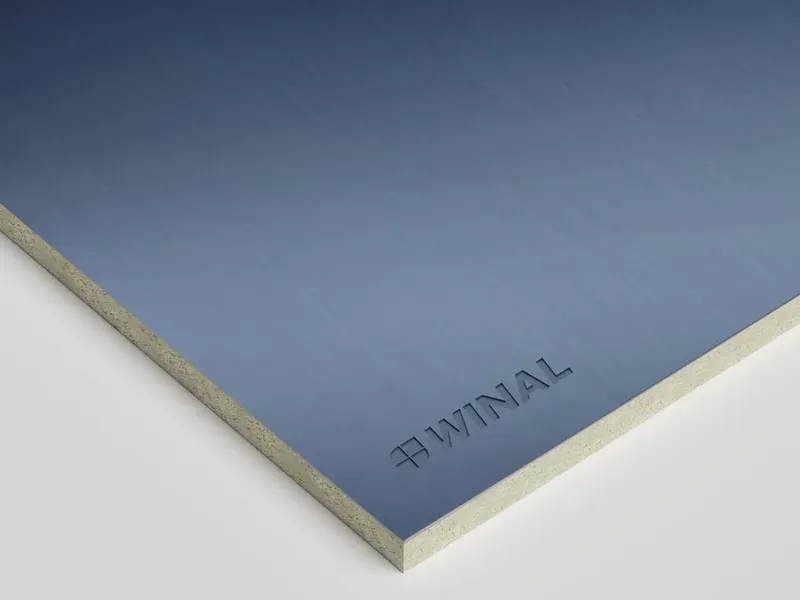
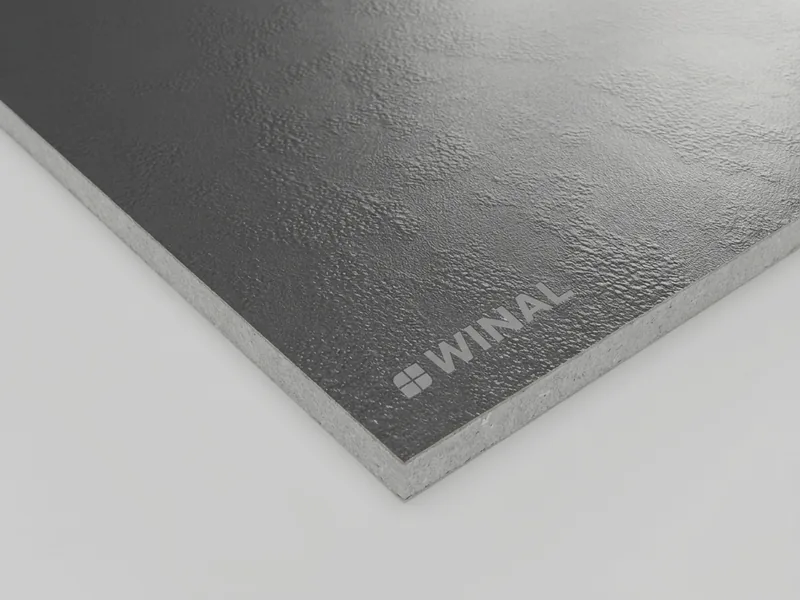
ГКЛ Полимер: shagreen catalogue cover and seven studio shots in the gallery
Cover: grey shagreen polymer, rendered in the reference camera scene
(GKL edge 12.5 mm) and refined with img2img. Gallery opens with the new
shots: shagreen, High Glow bordo and graphite, blue carbon, Polytech
champagne and blue; the existing polymer photos follow.

Claude-Session: https://claude.ai/code/session_01KsZN6Eztc5FAnkXxyBkDH4

diff --git a/src/data/wall-gkl-polymer-product-modal.ts b/src/data/wall-gkl-polymer-product-modal.ts
@@ -27,6 +27,34 @@ export const WALL_GKL_POLYMER_PRODUCT_MODAL_ID = "wall-gkl-polymer-product-modal
 export const wallGklPolymerModalAssets = {
   gallery: [
     {
+      src: `${GALLERY}/gkl-polymer-shagreen-seryj.webp`,
+      caption: "WINAL™ ГКЛ Полимер: Серый полимер с фактурой шагрени",
+    },
+    {
+      src: `${GALLERY}/gkl-polymer-high-glow-bordo.webp`,
+      caption: "WINAL™ ГКЛ Полимер: High Glow, бордо",
+    },
+    {
+      src: `${GALLERY}/gkl-polymer-karbon-sinij.webp`,
+      caption: "WINAL™ ГКЛ Полимер: Синий карбон",
+    },
+    {
+      src: `${GALLERY}/gkl-polymer-polytech-shampan.webp`,
+      caption: "WINAL™ ГКЛ Полимер: Polytech, шампань",
+    },
+    {
+      src: `${GALLERY}/gkl-polymer-polytech-sinij.webp`,
+      caption: "WINAL™ ГКЛ Полимер: Polytech, синий",
+    },
+    {
+      src: `${GALLERY}/gkl-polymer-high-glow-grafit.webp`,
+      caption: "WINAL™ ГКЛ Полимер: High Glow, графит",
+    },
+    {
+      src: `${GALLERY}/gkl-polymer-high-glow-bordo-2.webp`,
+      caption: "WINAL™ ГКЛ Полимер: High Glow, бордо",
+    },
+    {
       src: `${GALLERY}/sten-panel-sml-winal-high-glow-premium-1.webp`,
       caption: GKL_GALLERY_CAPTION,
     },
